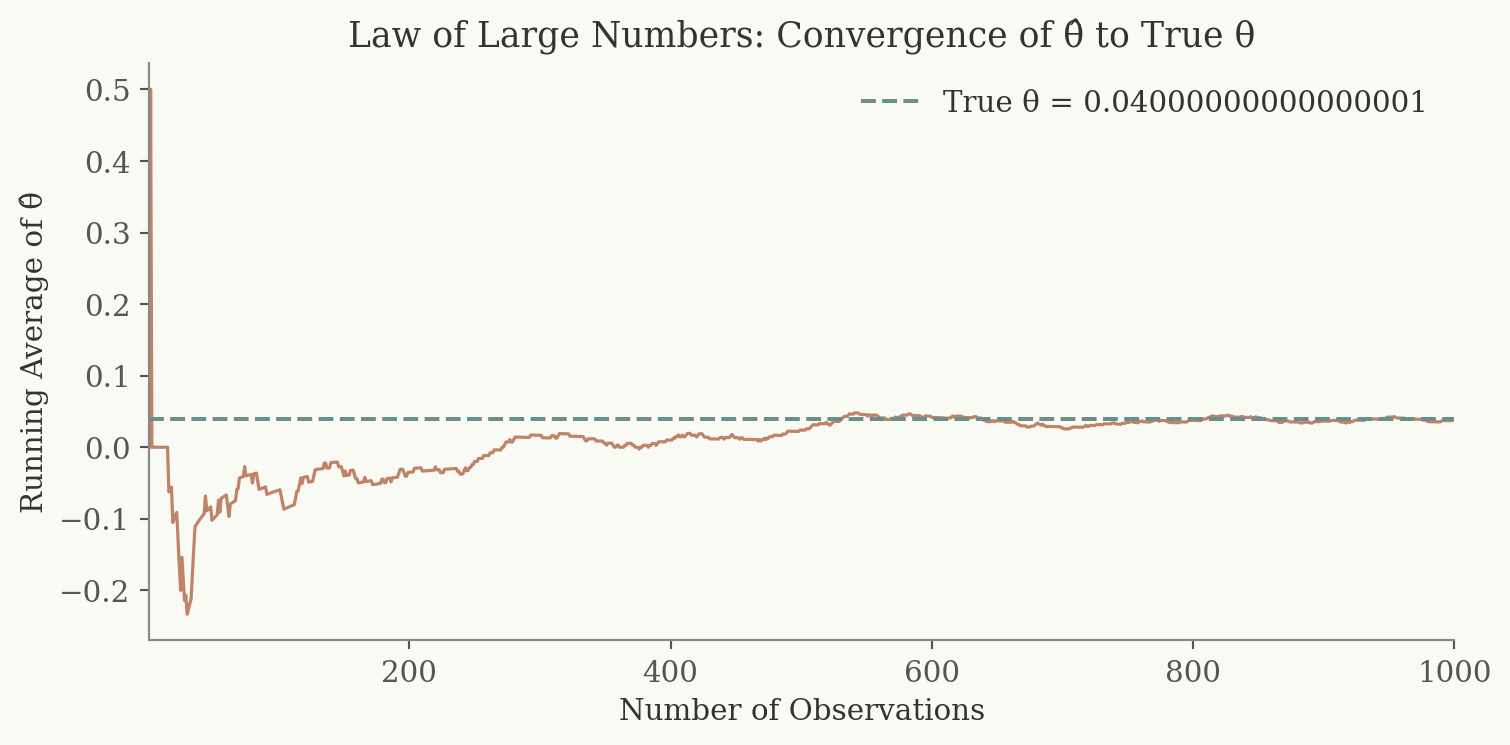
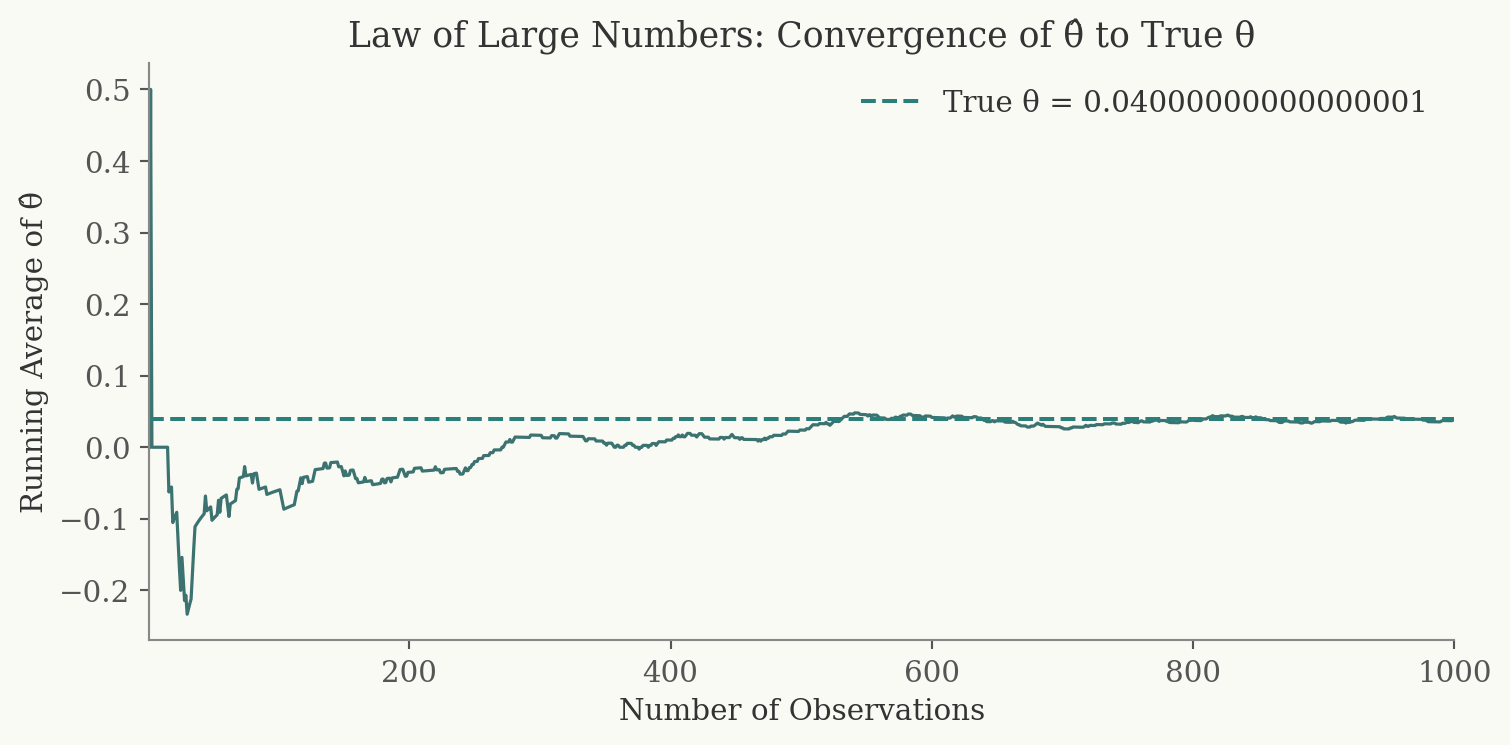
Update HW1 chart accent colors to teal theme

Changed region(s): [[0.0934, 0.5557, 0.9649, 0.6174], [0.0934, 0.6174, 0.3113, 0.7101], [0.0934, 0.7409, 0.1245, 0.8027]]

diff --git a/docs/project_1/hw1_questions.html b/docs/project_1/hw1_questions.html
@@ -260,7 +260,7 @@ window.Quarto = {
 <h2 class="anchored" data-anchor-id="simulating-data">Simulating Data</h2>
 <p>In practice, we wouldn’t know the true values of <span class="math inline">\(\pi_A\)</span> and <span class="math inline">\(\pi_B\)</span>. That’s the whole point of running the experiment. But simulation gives us a powerful advantage: we can <em>set</em> the truth ourselves and then study whether our statistical tools recover it correctly.</p>
 <p>Let’s suppose <span class="math inline">\(\pi_A = 0.22\)</span> and <span class="math inline">\(\pi_B = 0.18\)</span>, so the true difference is <span class="math inline">\(\theta = 0.04\)</span> (a 4 percentage point lift for CTA A). We’ll simulate 1,000 visitors per group.</p>
-<div id="19cf8ca8" class="cell" data-execution_count="2">
+<div id="d7b9bdf6" class="cell" data-execution_count="2">
 <div class="code-copy-outer-scaffold"><div class="sourceCode cell-code" id="cb1"><pre class="sourceCode python code-with-copy"><code class="sourceCode python"><span id="cb1-1"><a href="#cb1-1" aria-hidden="true" tabindex="-1"></a><span class="co"># True parameters</span></span>
 <span id="cb1-2"><a href="#cb1-2" aria-hidden="true" tabindex="-1"></a>pi_A <span class="op">=</span> <span class="fl">0.22</span></span>
 <span id="cb1-3"><a href="#cb1-3" aria-hidden="true" tabindex="-1"></a>pi_B <span class="op">=</span> <span class="fl">0.18</span></span>
@@ -291,14 +291,14 @@ Estimated θ̂:        0.038  (true: 0.04000000000000001)</code></pre>
 <h2 class="anchored" data-anchor-id="the-law-of-large-numbers">The Law of Large Numbers</h2>
 <p>The <strong>Law of Large Numbers</strong> (LLN) tells us that as we collect more data, the sample mean converges to the population mean. This is the foundational reason we can trust <span class="math inline">\(\hat\theta\)</span>: with enough visitors in our experiment, the difference in sample proportions will settle down near the true difference <span class="math inline">\(\theta\)</span>.</p>
 <p>To see this in action, let’s compute the <strong>running average</strong> of the element-wise differences between our CTA A and CTA B draws. After just a handful of observations the average bounces around wildly, but as the sample grows it stabilizes near <span class="math inline">\(0.04\)</span>.</p>
-<div id="9cb68df2" class="cell" data-execution_count="3">
+<div id="4ada3684" class="cell" data-execution_count="3">
 <div class="code-copy-outer-scaffold"><div class="sourceCode cell-code" id="cb3"><pre class="sourceCode python code-with-copy"><code class="sourceCode python"><span id="cb3-1"><a href="#cb3-1" aria-hidden="true" tabindex="-1"></a><span class="co"># Element-wise differences</span></span>
 <span id="cb3-2"><a href="#cb3-2" aria-hidden="true" tabindex="-1"></a>diffs <span class="op">=</span> cta_a <span class="op">-</span> cta_b</span>
 <span id="cb3-3"><a href="#cb3-3" aria-hidden="true" tabindex="-1"></a></span>
 <span id="cb3-4"><a href="#cb3-4" aria-hidden="true" tabindex="-1"></a><span class="co"># Cumulative (running) average</span></span>
 <span id="cb3-5"><a href="#cb3-5" aria-hidden="true" tabindex="-1"></a>cumulative_avg <span class="op">=</span> np.cumsum(diffs) <span class="op">/</span> np.arange(<span class="dv">1</span>, n <span class="op">+</span> <span class="dv">1</span>)</span></code></pre></div><button title="Copy to Clipboard" class="code-copy-button"><i class="bi"></i></button></div>
 </div>
-<div id="78c10a15" class="cell" data-execution_count="4">
+<div id="adc419e2" class="cell" data-execution_count="4">
 <div class="cell-output cell-output-display">
 <div>
 <figure class="figure">
@@ -318,7 +318,7 @@ Estimated θ̂:        0.038  (true: 0.04000000000000001)</code></pre>
 <li>Compute <span class="math inline">\(\hat\theta^*\)</span> on the resampled data.</li>
 <li>Repeat many times. The standard deviation of all the <span class="math inline">\(\hat\theta^*\)</span> values is our <strong>bootstrap standard error</strong>.</li>
 </ol>
-<div id="1d234f88" class="cell" data-execution_count="5">
+<div id="9c5f3fba" class="cell" data-execution_count="5">
 <div class="code-copy-outer-scaffold"><div class="sourceCode cell-code" id="cb4"><pre class="sourceCode python code-with-copy"><code class="sourceCode python"><span id="cb4-1"><a href="#cb4-1" aria-hidden="true" tabindex="-1"></a><span class="co"># Bootstrap</span></span>
 <span id="cb4-2"><a href="#cb4-2" aria-hidden="true" tabindex="-1"></a>n_boot <span class="op">=</span> <span class="dv">1000</span></span>
 <span id="cb4-3"><a href="#cb4-3" aria-hidden="true" tabindex="-1"></a>boot_thetas <span class="op">=</span> np.empty(n_boot)</span>
@@ -340,7 +340,7 @@ Estimated θ̂:        0.038  (true: 0.04000000000000001)</code></pre>
 <span id="cb4-19"><a href="#cb4-19" aria-hidden="true" tabindex="-1"></a>ci_lower <span class="op">=</span> theta_hat <span class="op">-</span> <span class="fl">1.96</span> <span class="op">*</span> boot_se</span>
 <span id="cb4-20"><a href="#cb4-20" aria-hidden="true" tabindex="-1"></a>ci_upper <span class="op">=</span> theta_hat <span class="op">+</span> <span class="fl">1.96</span> <span class="op">*</span> boot_se</span></code></pre></div><button title="Copy to Clipboard" class="code-copy-button"><i class="bi"></i></button></div>
 </div>
-<div id="605aa821" class="cell" data-execution_count="6">
+<div id="c294e7bd" class="cell" data-execution_count="6">
 <div class="cell-output cell-output-stdout">
 <pre><code>Standard Error Comparison
 ========================================
@@ -363,7 +363,7 @@ Point estimate (θ̂) 0.0380
 <p>The <strong>Central Limit Theorem</strong> (CLT) is one of the most powerful results in statistics. It tells us that regardless of the shape of the underlying distribution, the sampling distribution of a sample mean (or a difference in sample means) approaches a <strong>Normal distribution</strong> as the sample size grows.</p>
 <p>This matters for our A/B test because it means we can use the Normal distribution to make probability statements about <span class="math inline">\(\hat\theta\)</span>, even though the raw data are binary (0s and 1s), not bell shaped at all.</p>
 <p>Let’s see the CLT in action. For each of four sample sizes (<span class="math inline">\(n = 25, 50, 100, 500\)</span>), we’ll repeat the experiment 1,000 times and plot the distribution of <span class="math inline">\(\hat\theta\)</span>.</p>
-<div id="3d03121f" class="cell" data-execution_count="7">
+<div id="a93c6d59" class="cell" data-execution_count="7">
 <div class="code-copy-outer-scaffold"><div class="sourceCode cell-code" id="cb6"><pre class="sourceCode python code-with-copy"><code class="sourceCode python"><span id="cb6-1"><a href="#cb6-1" aria-hidden="true" tabindex="-1"></a>sample_sizes <span class="op">=</span> [<span class="dv">25</span>, <span class="dv">50</span>, <span class="dv">100</span>, <span class="dv">500</span>]</span>
 <span id="cb6-2"><a href="#cb6-2" aria-hidden="true" tabindex="-1"></a>n_sims <span class="op">=</span> <span class="dv">1000</span></span>
 <span id="cb6-3"><a href="#cb6-3" aria-hidden="true" tabindex="-1"></a>clt_results <span class="op">=</span> {}</span>
@@ -376,7 +376,7 @@ Point estimate (θ̂) 0.0380
 <span id="cb6-10"><a href="#cb6-10" aria-hidden="true" tabindex="-1"></a>        estimates[i] <span class="op">=</span> a.mean() <span class="op">-</span> b.mean()</span>
 <span id="cb6-11"><a href="#cb6-11" aria-hidden="true" tabindex="-1"></a>    clt_results[sz] <span class="op">=</span> estimates</span></code></pre></div><button title="Copy to Clipboard" class="code-copy-button"><i class="bi"></i></button></div>
 </div>
-<div id="7e94859b" class="cell" data-execution_count="8">
+<div id="a29842c2" class="cell" data-execution_count="8">
 <div class="cell-output cell-output-display">
 <div>
 <figure class="figure">
@@ -408,12 +408,12 @@ z = \frac{\hat\theta - 0}{SE(\hat\theta)}
 </ol>
 <p>A brief note on terminology: you’ll often see this called a “t-test.” Strictly speaking, the t-distribution arises when data are drawn from a Normal distribution and the variance must be estimated. Our data are Bernoulli (not Normal), so the CLT gives us approximate Normality and we’re really performing something closer to a z-test. For large samples the t-distribution and the standard Normal are nearly identical, so the distinction rarely matters in practice. Still, it’s important to understand the reasoning behind it.</p>
 <p>The classical t-test applies when the data come from a Normal distribution and the variance is unknown. In that setting, the ratio of the estimate to its estimated standard error follows an exact t-distribution. In our case, the data are Bernoulli, not Normal. The CLT gives us <em>approximate</em> Normality, and since we estimate the SE from the data, what we are really doing is closer to a z-test. For large samples, the t-distribution and the standard Normal are nearly identical, so the distinction has little practical consequence.</p>
-<div id="dd23e060" class="cell" data-execution_count="9">
+<div id="8d1f8ffa" class="cell" data-execution_count="9">
 <div class="code-copy-outer-scaffold"><div class="sourceCode cell-code" id="cb7"><pre class="sourceCode python code-with-copy"><code class="sourceCode python"><span id="cb7-1"><a href="#cb7-1" aria-hidden="true" tabindex="-1"></a><span class="co"># Compute the z-statistic and p-value</span></span>
 <span id="cb7-2"><a href="#cb7-2" aria-hidden="true" tabindex="-1"></a>z_stat <span class="op">=</span> theta_hat <span class="op">/</span> se_analytical</span>
 <span id="cb7-3"><a href="#cb7-3" aria-hidden="true" tabindex="-1"></a>p_value <span class="op">=</span> <span class="dv">2</span> <span class="op">*</span> (<span class="dv">1</span> <span class="op">-</span> stats.norm.cdf(<span class="bu">abs</span>(z_stat)))  <span class="co"># two-sided test</span></span></code></pre></div><button title="Copy to Clipboard" class="code-copy-button"><i class="bi"></i></button></div>
 </div>
-<div id="b5fa63ac" class="cell" data-execution_count="10">
+<div id="80148136" class="cell" data-execution_count="10">
 <div class="cell-output cell-output-stdout">
 <pre><code>Hypothesis Test Results
 ========================================
@@ -443,7 +443,7 @@ z = \frac{\hat\theta - 0}{SE(\hat\theta)}
 <li><span class="math inline">\(\beta_0 + \beta_1\)</span> is the expected sign-up rate when <span class="math inline">\(D_i = 1\)</span>, which is the mean of the A group, estimating <span class="math inline">\(\pi_A\)</span>.</li>
 <li>Therefore <span class="math inline">\(\beta_1 = \pi_A - \pi_B = \theta\)</span>, and the OLS estimate <span class="math inline">\(\hat\beta_1\)</span> is <strong>numerically identical</strong> to <span class="math inline">\(\hat\theta = \bar{X}_A - \bar{X}_B\)</span>.</li>
 </ol>
-<div id="7c218255" class="cell" data-execution_count="11">
+<div id="f16f5093" class="cell" data-execution_count="11">
 <div class="code-copy-outer-scaffold"><div class="sourceCode cell-code" id="cb9"><pre class="sourceCode python code-with-copy"><code class="sourceCode python"><span id="cb9-1"><a href="#cb9-1" aria-hidden="true" tabindex="-1"></a><span class="co"># Stack data into a regression-friendly format</span></span>
 <span id="cb9-2"><a href="#cb9-2" aria-hidden="true" tabindex="-1"></a>Y <span class="op">=</span> np.concatenate([cta_a, cta_b])</span>
 <span id="cb9-3"><a href="#cb9-3" aria-hidden="true" tabindex="-1"></a>D <span class="op">=</span> np.concatenate([np.ones(n), np.zeros(n)])</span>
@@ -452,7 +452,7 @@ z = \frac{\hat\theta - 0}{SE(\hat\theta)}
 <span id="cb9-6"><a href="#cb9-6" aria-hidden="true" tabindex="-1"></a>X_reg <span class="op">=</span> sm.add_constant(D)</span>
 <span id="cb9-7"><a href="#cb9-7" aria-hidden="true" tabindex="-1"></a>model <span class="op">=</span> sm.OLS(Y, X_reg).fit()</span></code></pre></div><button title="Copy to Clipboard" class="code-copy-button"><i class="bi"></i></button></div>
 </div>
-<div id="f331bb96" class="cell" data-execution_count="12">
+<div id="c9d2ee82" class="cell" data-execution_count="12">
 <div class="cell-output cell-output-stdout">
 <pre><code>Regression Results:  Y = β₀ + β₁·D + ε
 ==================================================
@@ -478,7 +478,7 @@ Comparison with Two-Sample Approach
 <p>This sounds reasonable on the surface. But it’s a trap.</p>
 <p>A single hypothesis test at the <span class="math inline">\(\alpha = 0.05\)</span> level has a 5% chance of a <strong>false positive</strong>, meaning we reject <span class="math inline">\(H_0\)</span> when there’s actually no difference. But each additional peek is another roll of the dice. With 10 peeks, the probability that <em>at least one</em> of them triggers a false alarm is much higher than 5%.</p>
 <p>Let’s demonstrate this with a simulation. We’ll set up a world where <strong>the null is true</strong> (<span class="math inline">\(\pi_A = \pi_B = 0.20\)</span>, no difference) and simulate 10,000 experiments, each with 10 peeks.</p>
-<div id="a83bff8c" class="cell" data-execution_count="13">
+<div id="289cac18" class="cell" data-execution_count="13">
 <div class="code-copy-outer-scaffold"><div class="sourceCode cell-code" id="cb11"><pre class="sourceCode python code-with-copy"><code class="sourceCode python"><span id="cb11-1"><a href="#cb11-1" aria-hidden="true" tabindex="-1"></a><span class="co"># Peeking simulation: both groups have the SAME conversion rate</span></span>
 <span id="cb11-2"><a href="#cb11-2" aria-hidden="true" tabindex="-1"></a>pi_null <span class="op">=</span> <span class="fl">0.20</span></span>
 <span id="cb11-3"><a href="#cb11-3" aria-hidden="true" tabindex="-1"></a>n_experiments <span class="op">=</span> <span class="dv">10_000</span></span>
@@ -513,7 +513,7 @@ Comparison with Two-Sample Approach
 <span id="cb11-32"><a href="#cb11-32" aria-hidden="true" tabindex="-1"></a></span>
 <span id="cb11-33"><a href="#cb11-33" aria-hidden="true" tabindex="-1"></a>empirical_fpr <span class="op">=</span> false_positive_count <span class="op">/</span> n_experiments</span></code></pre></div><button title="Copy to Clipboard" class="code-copy-button"><i class="bi"></i></button></div>
 </div>
-<div id="99f26d73" class="cell" data-execution_count="14">
+<div id="5ea77cc2" class="cell" data-execution_count="14">
 <div class="cell-output cell-output-stdout">
 <pre><code>Peeking Simulation Results
 ==================================================

diff --git a/docs/projects.html b/docs/projects.html
@@ -205,7 +205,7 @@ window.Quarto = {
 
 <div class="quarto-listing quarto-listing-container-grid" id="listing-listing">
 <div class="list grid quarto-listing-cols-3">
-<div class="g-col-1" data-index="0" data-listing-date-sort="1776236400000" data-listing-file-modified-sort="1776285713793" data-listing-date-modified-sort="NaN" data-listing-reading-time-sort="16" data-listing-word-count-sort="3185">
+<div class="g-col-1" data-index="0" data-listing-date-sort="1776236400000" data-listing-file-modified-sort="1776288908950" data-listing-date-modified-sort="NaN" data-listing-reading-time-sort="16" data-listing-word-count-sort="3185">
 <a href="./project_1/hw1_questions.html" class="quarto-grid-link">
 <div class="quarto-grid-item card h-100 card-left">
 <p class="card-img-top"><img src="project_1/hw1_questions_files/figure-html/cell-5-output-1.png" style="height: 150px;"  class="thumbnail-image card-img"/></p>
